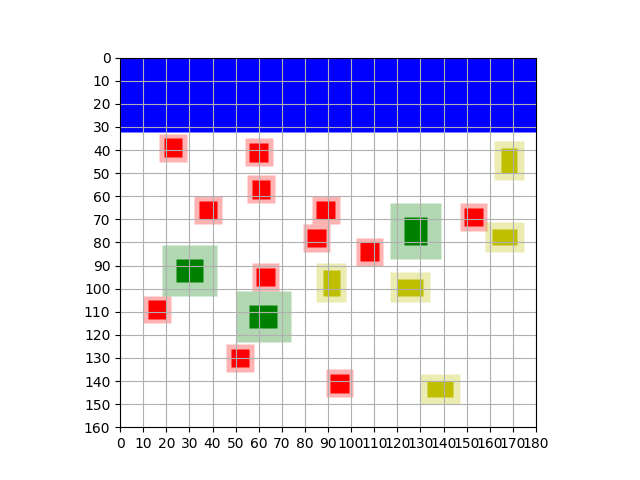
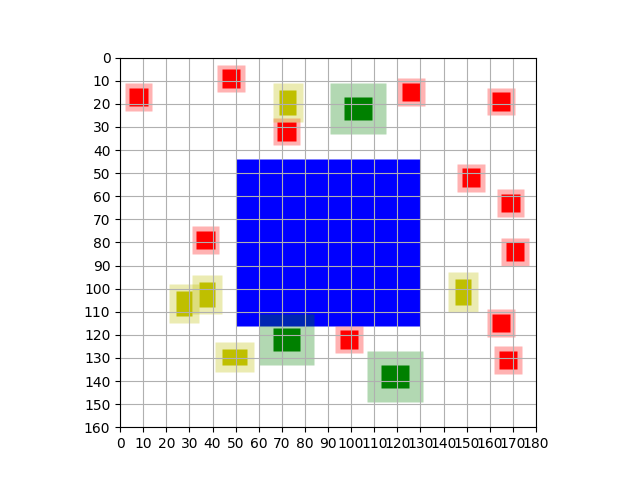
Replaced parts of visualize with helper functions

Changed region(s): [[0.1875, 0.125, 0.8438, 0.8438]]

diff --git a/code/visualization/visualize.py b/code/visualization/visualize.py
@@ -28,20 +28,50 @@ def visualize(grid):
     plt.grid(True)
     plt.gca().set_aspect("equal")
 
-    # Load water coordinates from correct map
+    # Create representation of water
     water_coord = grid.load_water()
+    water = draw_water(water_coord)
+    objects.extend(water)
 
-    # Add representation of water to diagram
+    # Create representation of houses
+    houses_coord = grid.all_houses.values()
+    houses = draw_houses(houses_coord)
+    objects.extend(houses)
+
+    # Add water and houses to diagram
+    representations = PatchCollection(objects, match_original=True)
+    ax.add_collection(representations)
+
+    # Save diagram to current directory
+    visualization = os.path.join('.','code', 'visualization', 'visualization.png')
+    plt.savefig(visualization)
+    
+def draw_water(water_coord):
+    """
+    Returns a list of patches based on given coordinates that represent the
+    water surface(s).
+    """
+    
+    water = []
+
     for ident, coordinates in water_coord.items():
         bottom_left =  water_coord[ident].get('bottom_left')
         width = water_coord[ident].get('top_right')[0] - bottom_left[0]
         height = water_coord[ident].get('top_right')[1] - bottom_left[1]
 
-        water = plt.Rectangle(bottom_left, width, height, fc="b")
-        objects.append(water)
+        water.append(plt.Rectangle(bottom_left, width, height, fc="b"))
+    
+    return water
 
-    # Add representation of houses to diagram
-    for house in grid.all_houses.values():
+def draw_houses(houses_coord):
+    """
+    Returns a list of patches based on given coordinates that represent the
+    houses and their surrounding mandatory free space.
+    """
+    
+    houses = []
+    
+    for house in houses_coord:
         # Load house coordinates without free space
         bottom_left = house.coordinates['bottom_left']
         width = house.coordinates['bottom_right'][0] - house.coordinates['bottom_left'][0]
@@ -62,11 +92,6 @@ def visualize(grid):
         
         house = plt.Rectangle(bottom_left, width, height, fc=color)
         free_space = plt.Rectangle(free_space_bottom_left, free_space_width, free_space_height, fc=color, alpha=0.3)
-        objects.extend((house, free_space))
+        houses.extend((house, free_space))
     
-    representations = PatchCollection(objects, match_original=True)
-    ax.add_collection(representations)
-
-    # Save diagram to current directory
-    visualization = os.path.join('.','code', 'visualization', 'visualization.png')
-    plt.savefig(visualization)
+    return houses

diff --git a/main.py b/main.py
@@ -6,7 +6,7 @@ if __name__ == "__main__":
 
 
 	# Create grid
-    test_grid = grid.Grid(20, "data/wijken/wijk_1.csv")
+    test_grid = grid.Grid(20, "data/wijken/wijk_3.csv")
     # print(test_grid.load_houses(20))
     # print(test_grid.load_water())
     
